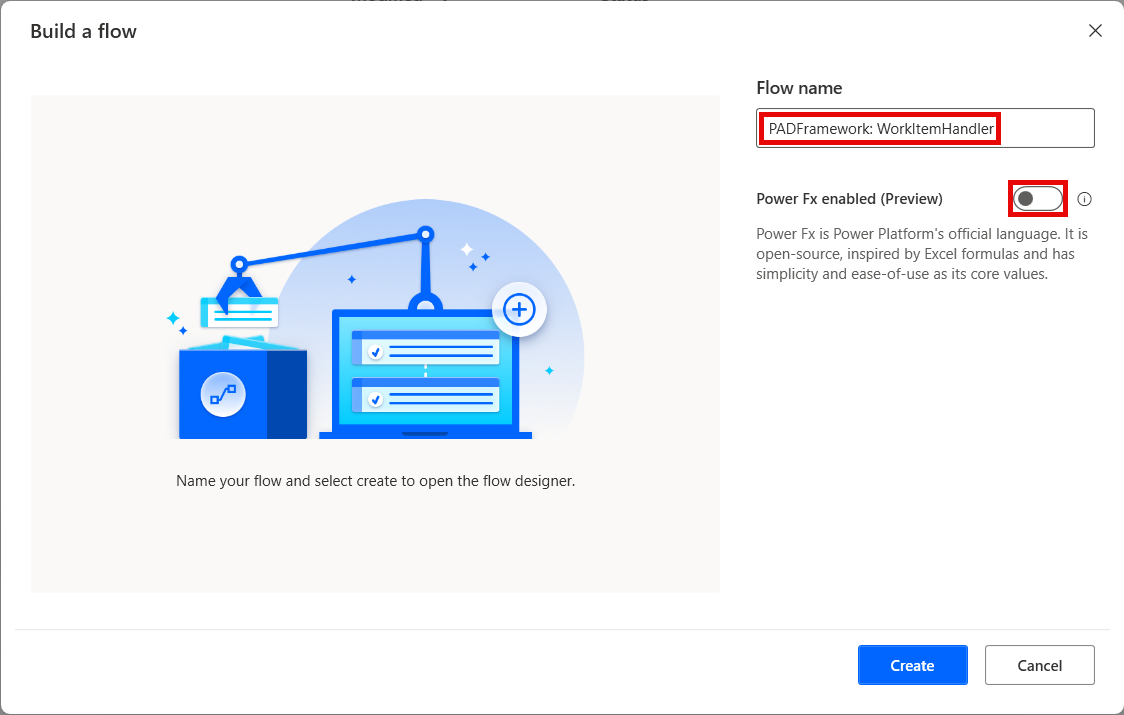
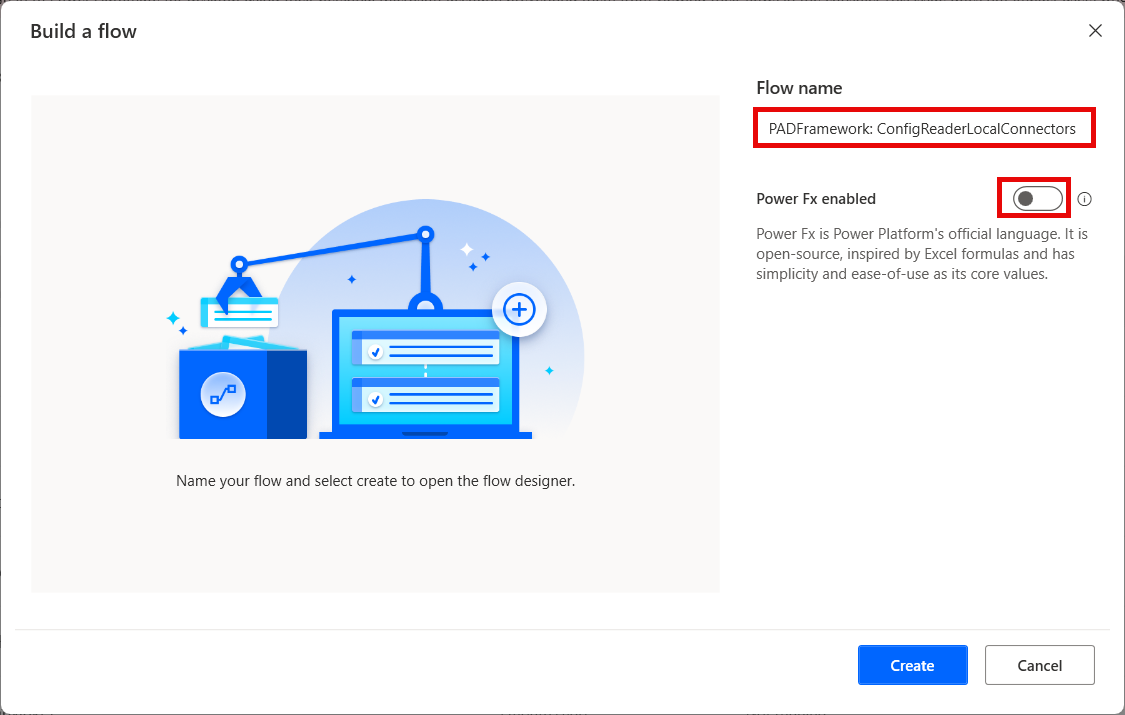
created ConfigReaderCloudConnectors

diff --git a/src/flows/config-reader-cloud-connectors/README.md b/src/flows/config-reader-cloud-connectors/README.md
@@ -1,0 +1,114 @@
+# ConfigReaderCloudConnectors
+
+The ConfigReader flow retrieves externally stored config values for the parent flow based on the inputs provided.
+It is to be called as a child flow by other flows, and as such it should reside as a utility flow that does not need to be copied, but can be re-used.
+
+The Cloud Connectors version of the ConfigReader reads configurations from either a SharePoint list or a Dataverse table. See **Notes** below regarding the use of the ConfigReader flows.
+
+## Disclaimer
+This utility flow is only required if you want to config data externally, and do not want to have a cloud flow retrieving it and passing it into the desktop flow as inputs. If you prefer using Power Platform environment variables in solutions, or have external configurations retrieved via a cloud flow, this utility flow is not needed.
+
+## Version compatibility
+
+The code is compatible with Power Automate Desktop version 2.50.125.24304. Compatibility with other versions is not guaranteed, but it might work with earlier versions, too.
+The code currently does not have a version for flows with Power Fx enabled. However, as this is a flow that should be called as a child flow by other flows, it should not matter. It should simply be created without enabling Power Fx.
+
+## Inputs expected
+
+There are several inputs required by this flow, and a couple that are optional (depending on other parameters):
+
+1. **Input_ConfigAddress** - Should contain the address for where the config resource is stored. The flow expects it to contain:
+    - the site address when the type is 'SharePoint'
+    - the environment URL when the type is 'Dataverse' (can be found in the environment details in the PP admin center)
+1. **Input_ConfigPath** - Should contain the path to the config data. The flow expects it to contain:
+    - a list name when the type is 'SharePoint' 
+    - a table logical name when the type is 'Dataverse'
+1. **Input_ConfigType** - Should contain the config type. Currently supported options are:
+    1. Dataverse
+    1. SharePoint
+1. **Input_ProjectName** - Should contain the name of the project to identify the relevant entries in the database. 
+
+## Output produced
+
+The flow produces several output variables that are returned to the parent flow after execution:
+
+1. **Output_ConfigObject** - Returns the custom object with the config data. Should be marked as **sensitive** as the data may contain sensitive values.
+1. **Output_Message** - Contains the response of the flow. Can either return a success, or a failure response. Should be used by the parent flow for any logging after calling the child flow. Should be marked as **sensitive** in case the message may contain any sensitive data.
+1. **Output_Status** - Contains the status code for the response of the flow. Uses standard HTTP status codes. Can either return a success (200), or a failure status (4xx, 5xx). Should be checked by the parent flow to verify if the child flow succeeded.
+
+## Minimal path to awesome
+
+1. If you have not prepared an environment and a solution for the framework yet:
+    1. Open the browser and navigate to [Power Automate cloud portal](https://make.powerautomate.com/)
+    1. Create an dedicated environment for the Framework (DEV environments for other flows should contain a managed solution of the Framework - see **Notes** below)
+    1. Create a solution called **PADFramework** in the new environment
+1. Open **Power Automate Desktop**
+1. Create a new flow called **PADFramework: ConfigReaderCloudConnectors** - make sure to not enable Power Fx when creating it
+
+    ![View of the flow creation window in PAD](./assets/creating-the-flow.png)
+
+1. Create the following input and output variables (use the same names for "Variable name" and "External name" fields to avoid unneccessary confusion):
+    1. Input:
+        1. Input_ConfigAddress (Data type - Text; Mark as sensitive - False; Mark as optional - False)
+
+            ![View of the parameters for the 'Input_ConfigAddress' input variable in PAD](./assets/input-config-address-variable-parameters.png)
+
+        1. Input_ConfigPath (Data type - Text; Mark as sensitive - False; Mark as optional - False)
+        1. Input_ConfigType (Data type - Text; Mark as sensitive - False; Mark as optional - False)
+        1. Input_ProjectName (Data type - Text; Mark as sensitive - False; Mark as optional - False)
+    1. Output:
+        1. Output_ConfigObject (Data type: Custom object; Mark as sensitive - True)
+        1. Output_Message (Data type: Text; Mark as sensitive - True)
+
+            ![View of the parameters for the 'Output_Message' input variable in PAD](./assets/output-message-variable-parameters.png)
+
+        1. Output_Status (Data type: Number; Mark as sensitive - False)
+
+1. Create new subflows (see **Notes**): 
+    1. **ConvertTabularConfigToCustomObject** 
+    1. **ReadDataverseConfig**
+    1. **ReadSharePointConfig**
+1. Copy the code in the .txt files in `\source\` and paste it into Power Automate Desktop flow designer window into the appropriate subflows (see **Notes**):
+    1. **main.txt** to the **Main** subflow
+    1. **convert-tabular-config-to-custom-object.txt** to the **ConvertTabularConfigToCustomObject** subflow
+    1. **read-dataverse-config.txt** to the **ReadDataverseConfig** subflow
+    1. **read-sharepoint-config.txt** to the **ReadSharePointConfig** subflow
+1. Review the code for any syntax errors
+
+    ![View of the code in the Main subflow in PAD](./assets/main-subflow-example.png)
+
+1. Click **Save** in the flow designer
+1. Add the **PADFramework: ConfigReaderCloudConnectors** flow to the **PADFramework** solution for exporting it to other environments
+
+    ![View of the menu path to add an existing desktop flow to a solution](./assets/adding-existing-desktop-flow-to-solution.png)
+
+1. When exporting to other environments, export it as a **Managed** solution, so that it can be used, but not modified. Logger should be managed even in DEV environments for other flows (see **Notes** below)
+1. Create a config storage of your choice:
+    1. If you decide to use a JSON config, try using a sample JSON config file provided in `/assets/` and build on it (optional, but recommended).
+    1. If you want to use Dataverse for config, create a table in Dataverse with the following structure:
+        
+        ![View of a sample config table schema in Dataverse](./assets/dataverse-config-table-schema-example.png)
+
+    1. If you want to use a SharePoint list for config, create a list in SharePoint with the following structure:
+
+        ![View of a sample config as a SharePoint list](./assets/sharepoint-config-table-schema-example.png)
+
+1. **Enjoy**
+
+## Notes
+
+### Environments
+
+The Framework should have its own dedicated development environment. This is the only environment where the Framework should reside as an unmanaged solution. 
+
+It should be imported as a managed solution to all other environments where flows will use the framework, including normal DEV, TEST, UAT and other non-production environments. This is so that changes cannot be made to the framework outside of its own DEV environment, but it can be used by calling utility flows such as the **ConfigReaderCloudConnectors** as child flows, as well as making copies of the template flows for new projects.
+
+### Different types of configs
+
+In most organizations, you would normally not want to have different types of storage for external configs being used across flows. It's best to pick one and stick to that. So, you do not actually need to create all of the subflows listed here, as this adds extra complexity where it is not necessary. Feel free to just go with the one type of config you prefer.
+
+### Using other config types
+
+This flow only supports reading configs from SharePoint lists and Dataverse tables as these two types require setting up connection references to the cloud and also require Premium and require these two connectors being allowed in the environment, which can prevent the solution from being imported to some environments, even if the user has Premium. Other types of configs (JSON files, Excel and Databases are in a separate flow called **ConfigReaderLocalConnectors**).
+
+It is recommended to only keep one of these utility flows, as configs should be stored universally within an organization anyway. So, pick your preferred way for storing configs and keep the one utility flow, while deleting the other one.

diff --git a/src/flows/logger-cloud-connectors/README.md b/src/flows/logger-cloud-connectors/README.md
@@ -66,7 +66,7 @@ The flow produces several output variables that are returned to the parent flow 
 
             ![View of the parameters for the 'Input_FlowName' input variable in PAD](./assets/input-flow-name-variable-parameters.png)
 
-        1. Input_LogAddress (Data type - Text; Mark as sensitive - True; Mark as optional - True) 
+        1. Input_LogAddress (Data type - Text; Mark as sensitive - False; Mark as optional - False) 
         1. Input_LoggerObject (Data type - Custom object; Mark as sensitive - False; Mark as optional - False)
         1. Input_LogMessage (Data type - Text; Mark as sensitive - False; Mark as optional - False) 
         1. Input_LogPath (Data type - Text; Mark as sensitive - False; Mark as optional - False)
